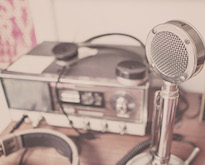
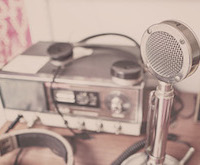
Change image paths and fix image size of 79H.jpg.

diff --git a/jsf/Shadoo/src/beans/ListControllerBean.java b/jsf/Shadoo/src/beans/ListControllerBean.java
@@ -37,47 +37,47 @@ public class ListControllerBean implements Serializable {
 		searchProducts = new ArrayList<ProductBean>();
 		
 		// dummy data
-		exampleProducts.add(new ProductBean("Die schönsten Filter für Instagram","resources/images/examplePics/79H.jpg",2,10, 
+		exampleProducts.add(new ProductBean("Die schönsten Filter für Instagram","resources/images/productPics/small/79H.jpg",2,10, 
 				new String[] {"Foto","Filter","Instagram","Oldschool"},
 				"Wer immer schon wissen wollten wie man sich von der Masse duch kreativen Einsatz von hippen Filtern abheben kann ist hier genau richtig", 
 				new Date(1389571200)));
-		exampleProducts.add(new ProductBean("Fahrrad fahren für Hipster","resources/images/examplePics/88H.jpg",3,500,
+		exampleProducts.add(new ProductBean("Fahrrad fahren für Hipster","resources/images/productPics/small/88H.jpg",3,500,
 				new String[] {"Sport", "Fahrrad", "Hipster","Alternativ"},
 				"Für alle, die auch beim Fahrradfahren Individualität und Style zeigen wollen.",new Date(1405641600)));
-		exampleProducts.add(new ProductBean("Die besten Stücke für den Posaunenchor","resources/images/examplePics/100H.jpg",4,30,
+		exampleProducts.add(new ProductBean("Die besten Stücke für den Posaunenchor","resources/images/productPics/small/100H.jpg",4,30,
 				new String[] {"Musik","Posaune","Musikstück","Bläser"},
 				"Die schönster Stücke für den klassischen 15-stimmigen Posaunenchor wurden hier liebevoll gesammelt und aufbereitet",
 				new Date(1390521600)));
-		exampleProducts.add(new ProductBean("Theater für Dummies","resources/images/examplePics/103H.jpg",1,22,
+		exampleProducts.add(new ProductBean("Theater für Dummies","resources/images/productPics/small/103H.jpg",1,22,
 				new String[] {"Theater","Kunst","Anfänger","Kurs"},
 				"Wenn du noch nie auf der Bühne standest, aber schon immer mal ausprobieren wolltest, wie es ist in eine ander Rolle zu schlüpfen passt diese Veranstaltung perfekt zu dir",
 				new Date(1391472000)));
-		exampleProducts.add(new ProductBean("Bahnfahren leicht gemacht","resources/images/examplePics/90H.jpg",2.5f,10,
+		exampleProducts.add(new ProductBean("Bahnfahren leicht gemacht","resources/images/productPics/small/90H.jpg",2.5f,10,
 				new String[] {"Bahn","Mobilität","sparen"},
 				"Sie verstehen immer nur Bahnhof, kommen nie rechtzeitig an und zahlen Unsummen? Mit diesen einfachen Tricks gehören diese Probleme der Vergangenheit an!"
 				,new Date(1394668800)));
-		exampleProducts.add(new ProductBean("Dias in der Neuzeit","resources/images/examplePics/83H.jpg",5,10,
+		exampleProducts.add(new ProductBean("Dias in der Neuzeit","resources/images/productPics/small/83H.jpg",5,10,
 				new String [] {"Bild","Dia","modern"},
 				"Tausende Dias im Schrank und keine Ahnung wohin damit? In diesem Kurs zeige ich Ihnen wie sie ihre Schätze digitalisieren können",
 				new Date(1395100800)));
-		exampleProducts.add(new ProductBean("10 tolle Tipps für Oldtimer-Fans","resources/images/examplePics/95H.jpg",2,10,
+		exampleProducts.add(new ProductBean("10 tolle Tipps für Oldtimer-Fans","resources/images/productPics/small/95H.jpg",2,10,
 				new String[] {"Auto","Oldtimer","Tipps","Reparatur","Do-it-yourself"},
 				"Früher war alles besser. Damit Sie auch noch heute die Meisterwerke aus dem 20. Jahrhundert bewundern können, müssen Sie auf einiges achten",
 				new Date(1396915200)));
-		exampleProducts.add(new ProductBean("Lustige Witze für zwischendurch","resources/images/examplePics/78H.jpg",4.5f,15,
+		exampleProducts.add(new ProductBean("Lustige Witze für zwischendurch","resources/images/productPics/small/78H.jpg",4.5f,15,
 				new String [] {"Humor","Witze","Unterhaltung"},
 				"Stressiges Studium? Mit diesen Witzen wird ihr Tag noch gerettet" ,
 				new Date(1397088000)));
-		exampleProducts.add(new ProductBean("Romantischer Tangotanz","resources/images/examplePics/82H.jpg",3,10,
+		exampleProducts.add(new ProductBean("Romantischer Tangotanz","resources/images/productPics/small/82H.jpg",3,10,
 				new String[] {"Tanz","Romantik","Tango","Sport"},
 				"Tango für romantische Stunden.",
 				new Date(1397174400)));
-		exampleProducts.add(new ProductBean("Moderne Kunst und ihre Tücken","resources/images/examplePics/85H.jpg",1.5f,3,
+		exampleProducts.add(new ProductBean("Moderne Kunst und ihre Tücken","resources/images/productPics/small/85H.jpg",1.5f,3,
 				new String[] {"Kunst","Modern","Interpretation"},
 				"Die avantgardistische Kunst erscheint zunächst als trostlose Metapher von Einfallslosigkeit und Absurdität. Doch dieser Schein trügt...",
 				
 				new Date(1398729600)));
-		exampleProducts.add(new ProductBean("Fashion-Accessoires zum Selbermachen","resources/images/examplePics/97H.jpg",4,10,
+		exampleProducts.add(new ProductBean("Fashion-Accessoires zum Selbermachen","resources/images/productPics/small/97H.jpg",4,10,
 				new String [] {"Fashion","Mode","Do-it-yourself"},
 				"Modebewusstsein aber schlechte finanzielle Lage? Dass wenig Geld kein Ausschlusskriterium für Stil sein muss zeige ich mit diesen einfachen Mode-Hacks",
 				new Date(1399248000)));
